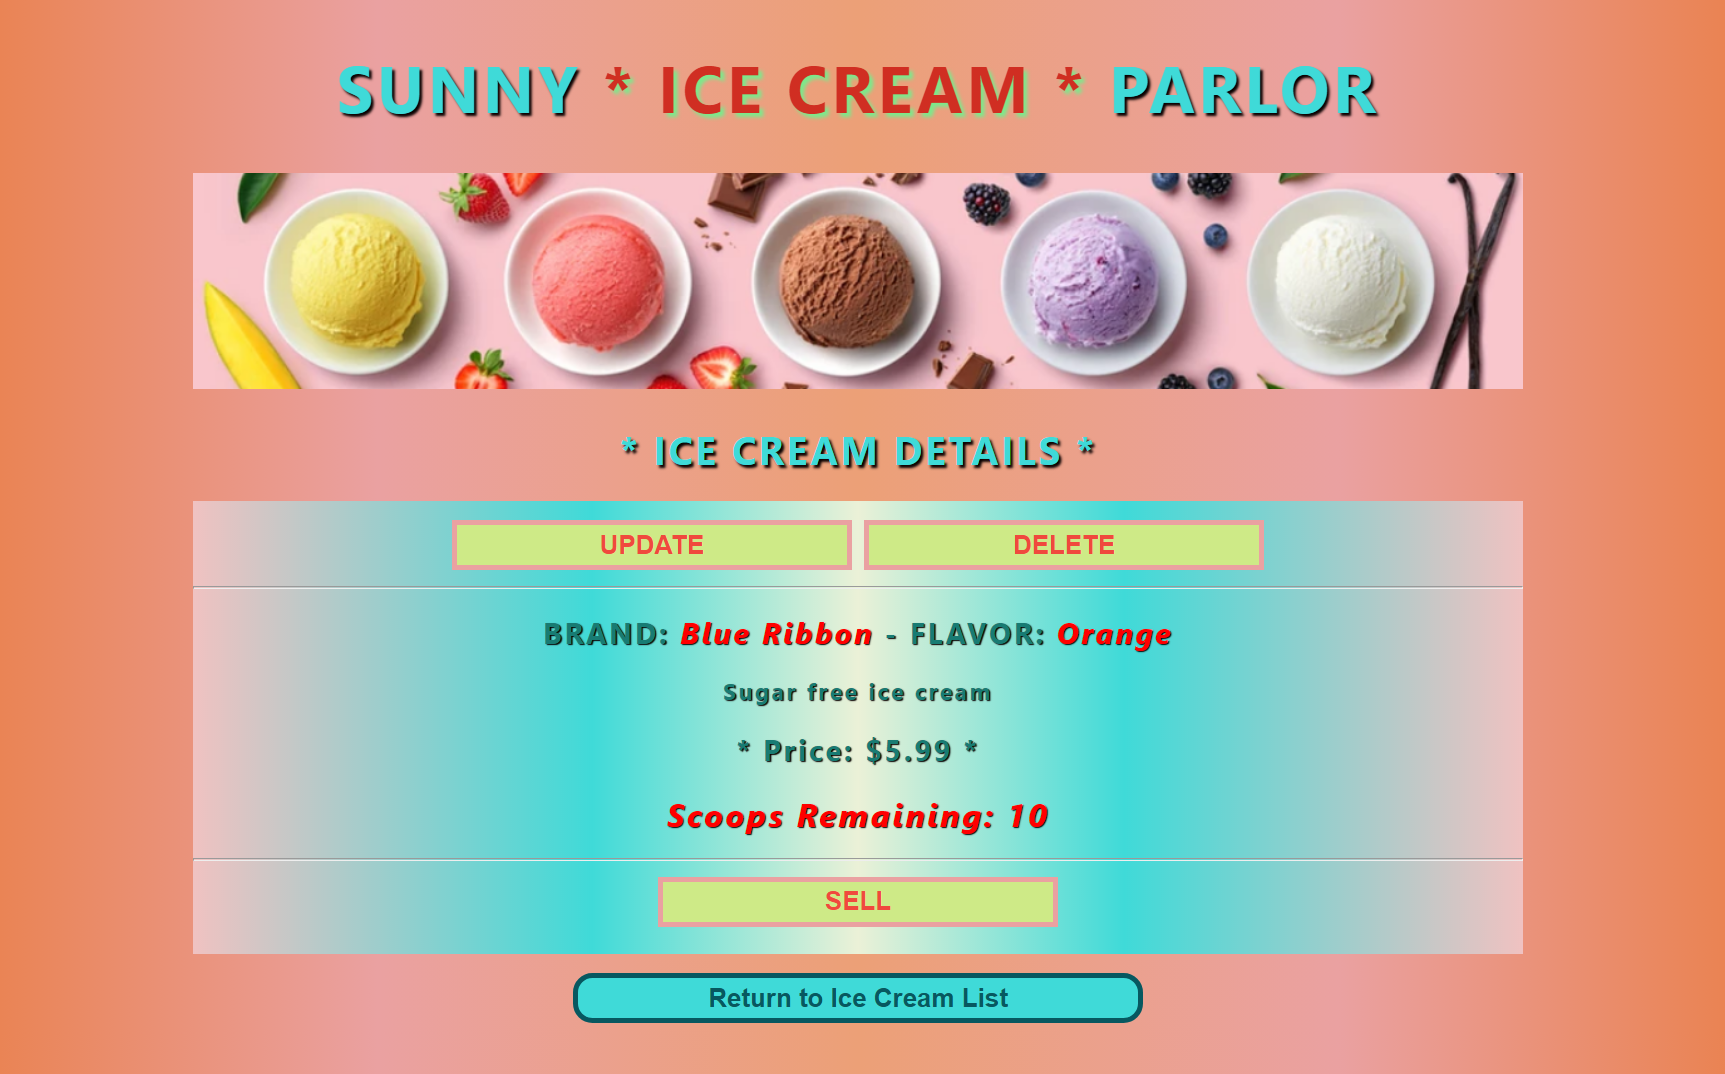
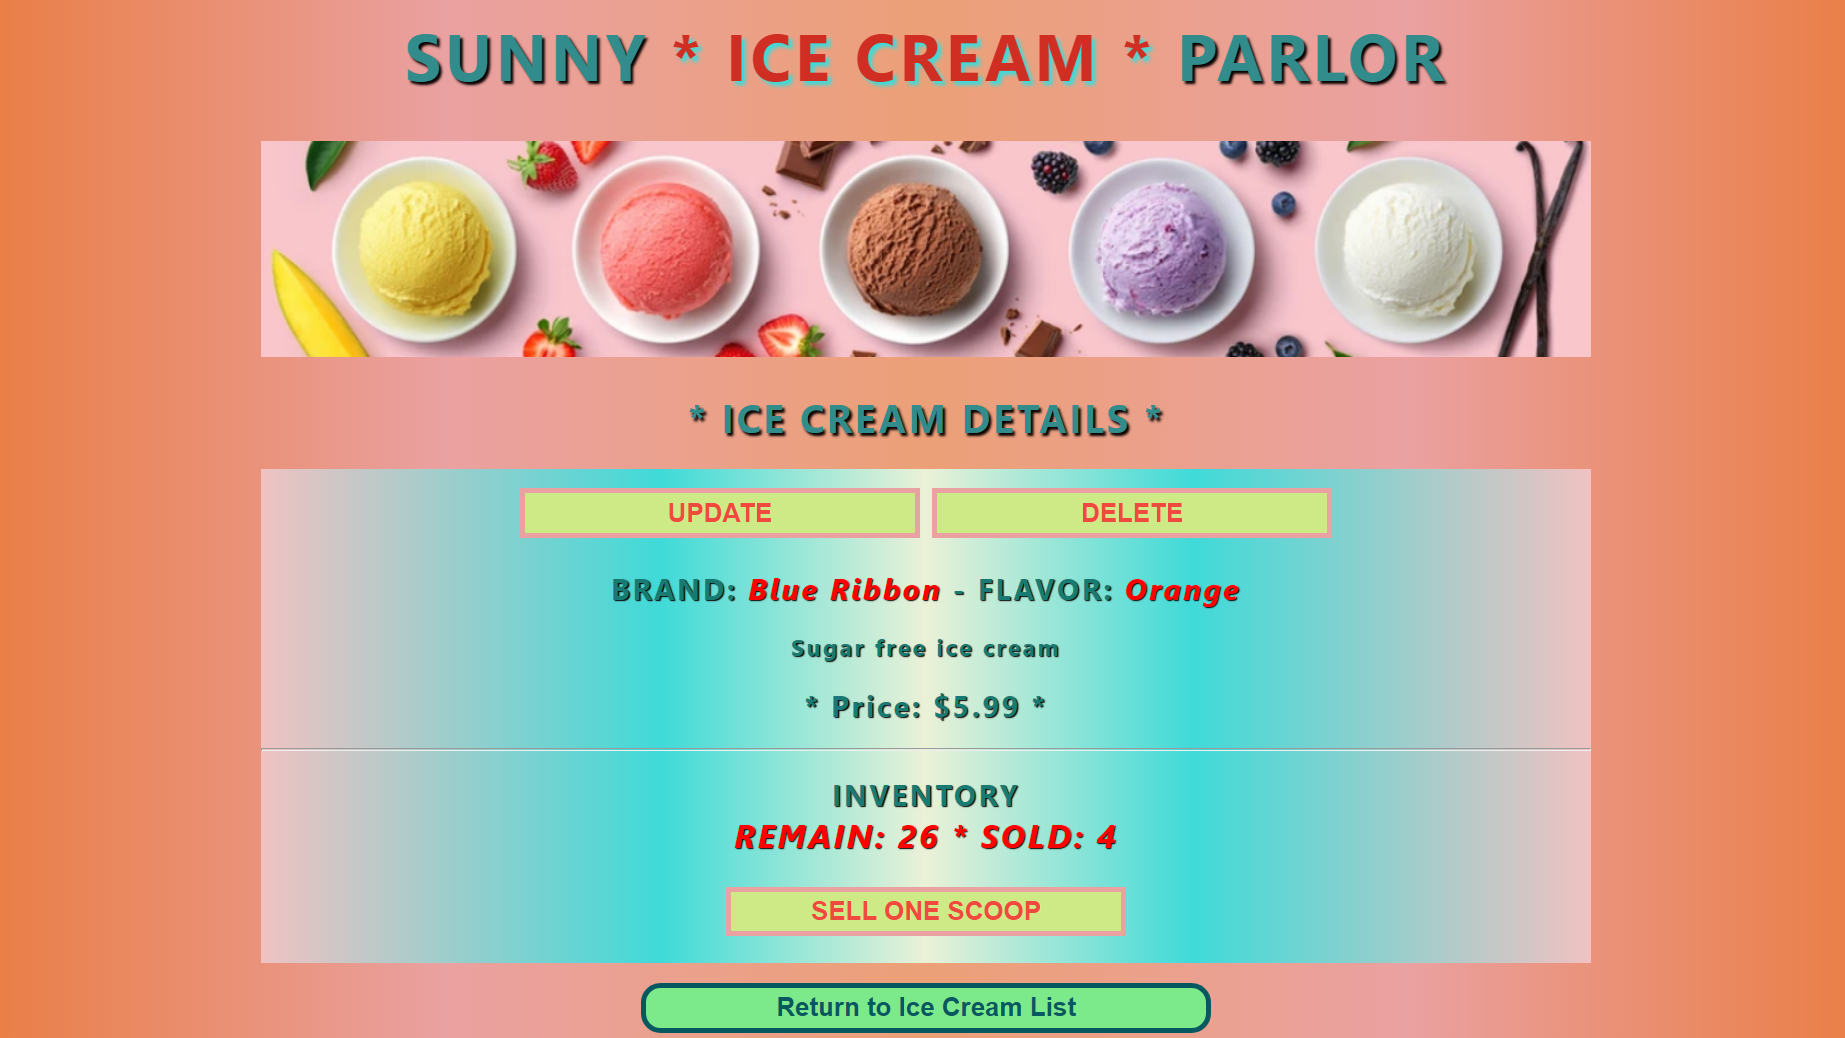
Update images & Styles

diff --git a/src/components/Ice.js b/src/components/Ice.js
@@ -21,7 +21,6 @@ function Ice(props){
         <div onClick = {() => props.whenIceClicked(props.id)}>
           <h2 >FLAVOR: <em style={infoColorStyles}>{props.names}</em> - PRICE: <em style={infoColorStyles}>${props.price}.99</em></h2>
           <h3><em style={quantityStyles}>Scoops Remaining: {props.scoops}</em></h3>
-          <h3><em style={quantityStyles}>Scoops Sold: {props.sold}</em></h3>
         </div>
       </div>
     </React.Fragment>

diff --git a/src/components/Header.js b/src/components/Header.js
@@ -14,7 +14,8 @@ function Header(){
 
   const iceStyles = {
     color: 'rgb(208, 46, 34)',
-    textShadow: '3px 3px 3px rgb(124, 233, 139)',
+    letterSpacing: '3px',
+    textShadow: '3px 3px 3px rgba(63, 218, 216, 1)',
   }
 
   return (

diff --git a/src/App.css b/src/App.css
@@ -11,7 +11,7 @@ body {
 }
 
 h1 {
-  color:rgba(63, 218, 216, 1);
+  color:rgb(50, 140, 139);
   text-shadow: 2px 2px 2px #090000;
 }
 
